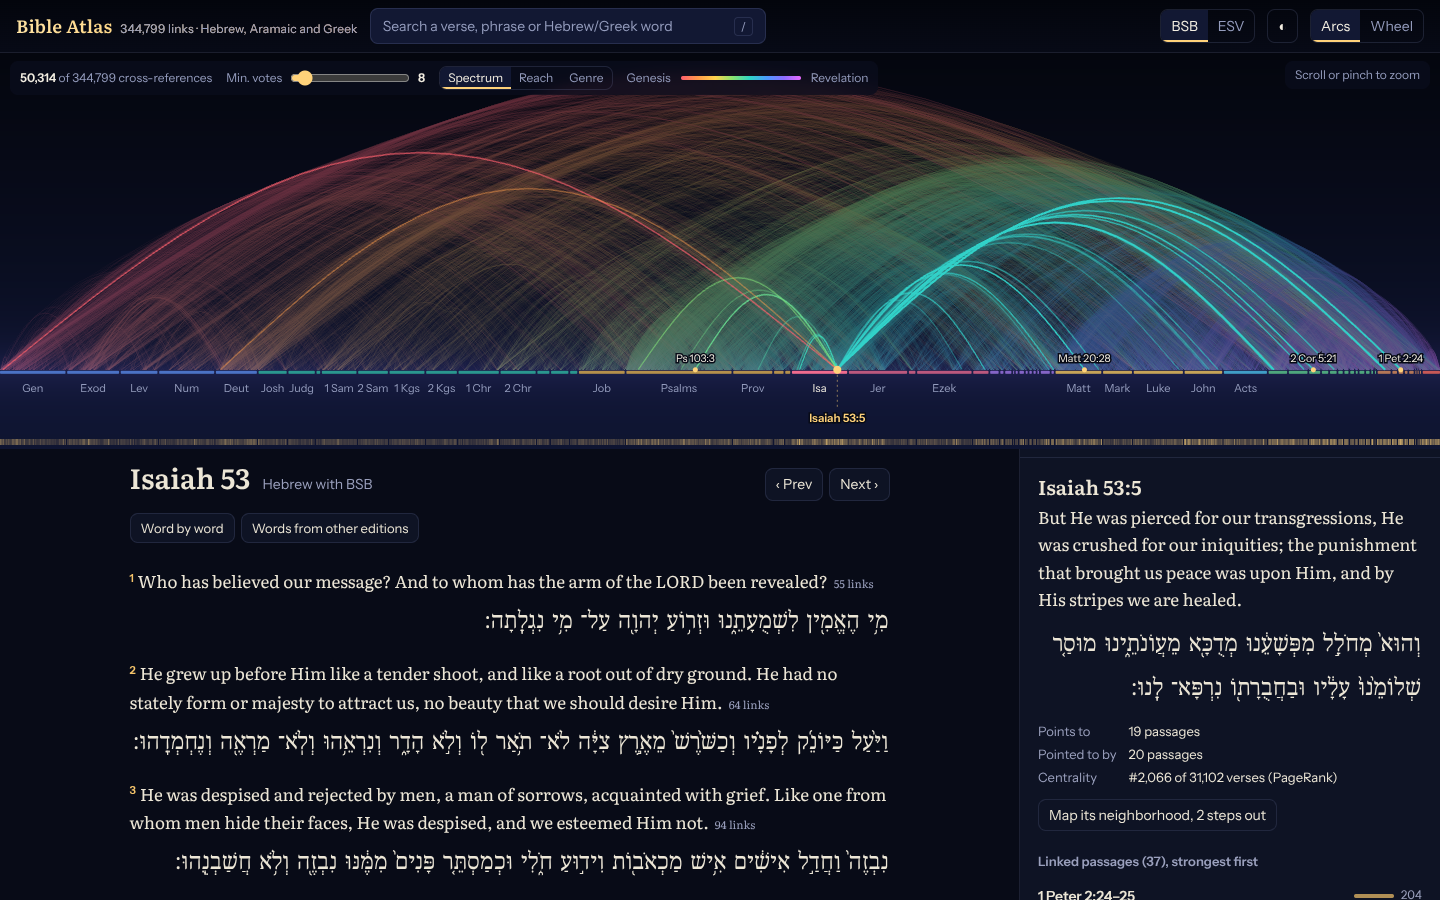
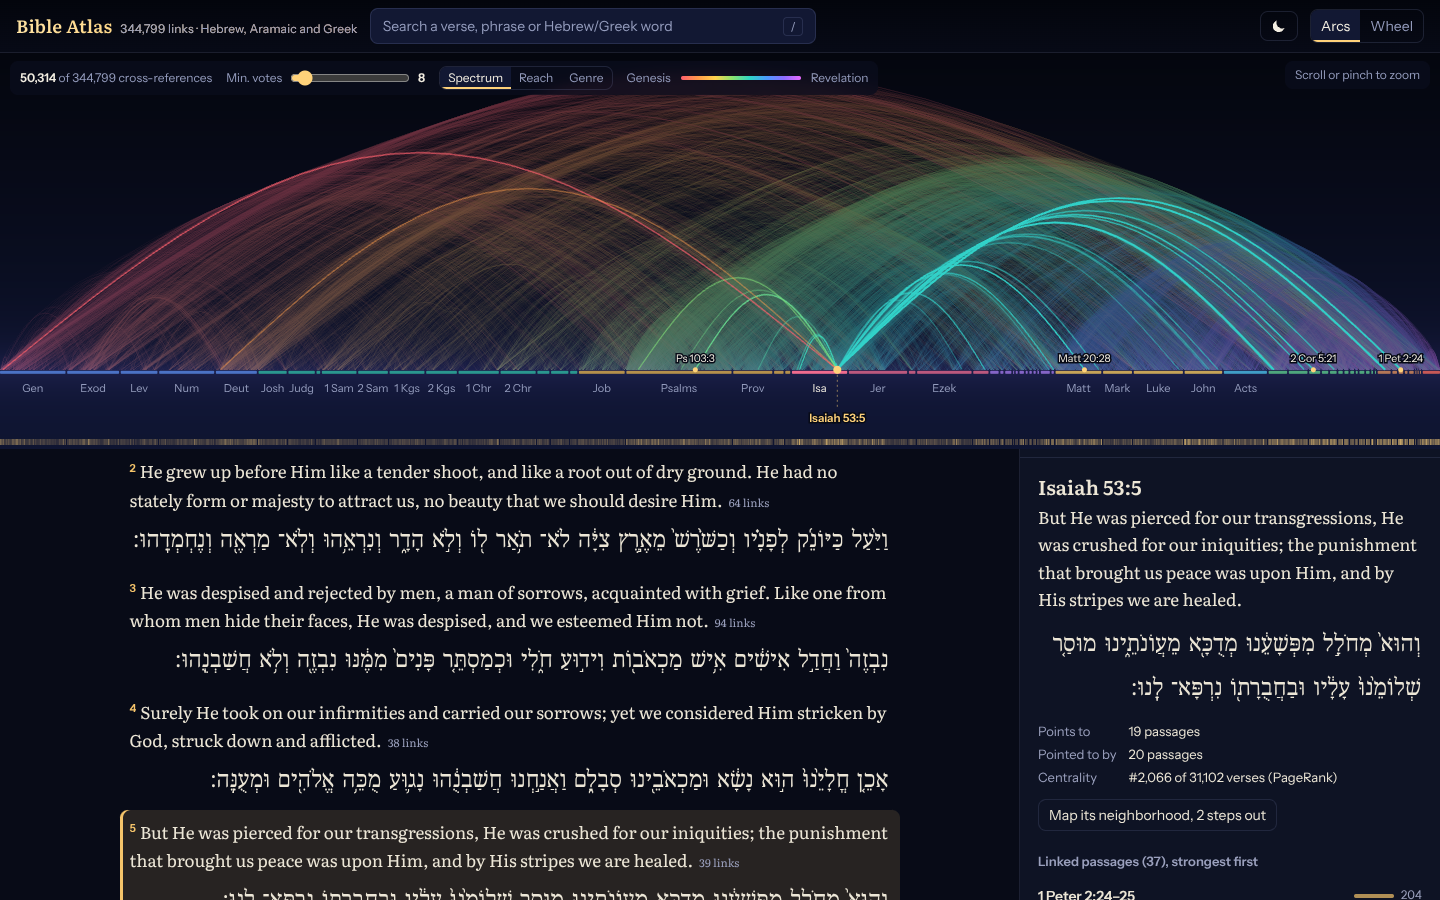
Live demo on GitHub Pages, new README and screenshots
- Deploy workflow builds the data, engine and site and publishes it to
  GitHub Pages on every push to main.
- VITE_ESV=off hides the ESV toggle in builds without the server proxy.
- README: live demo link, badges, animated map tour, deep links to
  famous verses and a screenshot gallery in the new colors.

Claude-Session: https://claude.ai/code/session_01KSvZFUjwhscpHwZiY2UUGi

Changed region(s): [[0.0625, 0.4978, 0.625, 1.0], [0.7812, 0.0, 0.875, 0.0622], [0.5312, 0.0, 0.5625, 0.0622]]

diff --git a/web/src/App.tsx b/web/src/App.tsx
@@ -1,5 +1,6 @@
 import { useEffect, useState } from 'preact/hooks';
 import { DATA_BASE, loadAtlas, versesWithRoot } from './data/atlas';
+import { ESV_ENABLED } from './data/esv';
 import { Engine } from './engine/client';
 import * as S from './state';
 import { pathFromHash, restoreFromHash, syncHash } from './url';
@@ -134,13 +135,15 @@ export function App() {
           Search a verse, phrase or Hebrew/Greek word <kbd>/</kbd>
         </button>
         <span class="spacer" />
-        <div class="seg" role="group" aria-label="English translation">
-          {(['BSB', 'ESV'] as const).map((t) => (
-            <button key={t} aria-pressed={S.translation.value === t} onClick={() => (S.translation.value = t)}>
-              {t}
-            </button>
-          ))}
-        </div>
+        {ESV_ENABLED && (
+          <div class="seg" role="group" aria-label="English translation">
+            {(['BSB', 'ESV'] as const).map((t) => (
+              <button key={t} aria-pressed={S.translation.value === t} onClick={() => (S.translation.value = t)}>
+                {t}
+              </button>
+            ))}
+          </div>
+        )}
         <button
           class="iconbtn"
           onClick={() => (S.pageTheme.value = THEME_NEXT[S.pageTheme.value])}

diff --git a/web/src/ui/Sources.tsx b/web/src/ui/Sources.tsx
@@ -1,6 +1,7 @@
 // Where every piece of data came from, pinned to commits and checksums.
 
 import type { Atlas } from '../data/atlas';
+import { ESV_ENABLED } from '../data/esv';
 
 const LABELS: Record<string, string> = {
   verses: 'verses',
@@ -64,6 +65,7 @@ export function Sources({ a }: { a: Atlas }) {
           ESV API terms
         </a>{' '}
         require. Search, the map and the word links use the BSB, which is public domain.
+        {!ESV_ENABLED && ' This copy of the site has no server, so the ESV is turned off here. Run it yourself with an ESV API key to read the ESV.'}
       </p>
 
       <h3>How to check it yourself</h3>

diff --git a/web/src/data/esv.ts b/web/src/data/esv.ts
@@ -7,6 +7,9 @@ export interface EsvChapter {
   copyright: string;
 }
 
+/** False in builds without the server (for example GitHub Pages, built with VITE_ESV=off). */
+export const ESV_ENABLED = import.meta.env.VITE_ESV !== 'off';
+
 const MAX_CHAPTERS = 2;
 const cache = new Map<string, Promise<EsvChapter>>();
 

diff --git a/README.md b/README.md
@@ -1,14 +1,69 @@
+<div align="center">
+
 # Bible Atlas
 
-Every cross-reference in the Bible on one map, with the original Hebrew, Aramaic and Greek under every verse, and a source for every fact.
+**Every cross-reference in the Bible on one map, with the original Hebrew, Aramaic and Greek under every verse, and a source for every fact.**
 
-![Isaiah 53:5 selected on the spectrum map, every arc colored by where it starts from Genesis to Revelation](docs/map.png)
+[**Open the live atlas**](https://sixteen1-6.github.io/BibleAtlas/) · [What it does](#what-it-does) · [Run it yourself](#quick-start) · [How it is built](#how-it-is-built) · [Ideas](IDEAS.md)
+
+[![Live demo](https://img.shields.io/badge/live-demo-f5c26b?style=flat-square)](https://sixteen1-6.github.io/BibleAtlas/)
+[![CI](https://github.com/Sixteen1-6/BibleAtlas/actions/workflows/ci.yml/badge.svg)](https://github.com/Sixteen1-6/BibleAtlas/actions/workflows/ci.yml)
+[![Deploy](https://github.com/Sixteen1-6/BibleAtlas/actions/workflows/pages.yml/badge.svg)](https://github.com/Sixteen1-6/BibleAtlas/actions/workflows/pages.yml)
+![Rust](https://img.shields.io/badge/engine-Rust%20%E2%86%92%20WebAssembly-b7410e?style=flat-square)
+![WebGL2](https://img.shields.io/badge/render-WebGL2-45cdad?style=flat-square)
+[![License: MIT](https://img.shields.io/badge/code-MIT-8a7fff?style=flat-square)](LICENSE)
+
+![The map stepping through Genesis 3:15, Psalm 22:1, Isaiah 53:5, John 3:16, Revelation 21:4 and more, each verse lighting up its cross-references](docs/tour.gif)
+
+**344,799** cross-references · **31,102** verses · **66** books · **3** original languages · **192** data checks · engine in **61 KB** of WebAssembly
+
+</div>
+
+## Start here
+
+Every view is a link, so these open straight to the story:
+
+| | |
+| --- | --- |
+| [Isaiah 53:5](https://sixteen1-6.github.io/BibleAtlas/#v=Isa.53.5) | "By His stripes we are healed", and 1 Peter 2:24, which quotes it |
+| [Psalm 22:1](https://sixteen1-6.github.io/BibleAtlas/#v=Ps.22.1) | "My God, my God, why have You forsaken me?", cried from the cross in Mark 15:34 and Matthew 27:46 |
+| [Genesis 3:15 to Revelation 12:9](https://sixteen1-6.github.io/BibleAtlas/#p=Gen.3.15~Rev.12.9&tab=paths) | The chain of cross-references from the first promise to the ancient serpent's defeat |
+| [Agape](https://sixteen1-6.github.io/BibleAtlas/#w=G0026&tab=word) | The Greek word for love: what it means, its grammar and every place it appears |
+| [The Lamb](https://sixteen1-6.github.io/BibleAtlas/#t=lamb&tab=themes) | One theme traced through specific Hebrew and Greek words, from Abel's flock to the throne |
+| [Daniel 7:13](https://sixteen1-6.github.io/BibleAtlas/#v=Dan.7.13) | "One like the Son of Man", and Jesus taking up those words in Matthew 26:64 |
+
+<table>
+  <tr>
+    <td width="50%"><img src="docs/map.png" alt="Isaiah 53:5 selected on the dark spectrum map with its Hebrew text"></td>
+    <td width="50%"><img src="docs/light.png" alt="John 3:16 in the warm paper reading theme with the Greek under each verse"></td>
+  </tr>
+  <tr>
+    <td align="center"><sub><b>Night sky.</b> Isaiah 53:5 and its links, each arc colored by where it starts.</sub></td>
+    <td align="center"><sub><b>Paper.</b> John 3:16 in the light reading theme, Greek under every verse.</sub></td>
+  </tr>
+  <tr>
+    <td><img src="docs/word-study.png" alt="Word study for the Hebrew word karah, to pierce, from Psalm 22:16"></td>
+    <td><img src="docs/path.png" alt="Connection path from Genesis 3:15 through John 8:44 to Revelation 12:9"></td>
+  </tr>
+  <tr>
+    <td align="center"><sub><b>Word study.</b> כָּרָה, "to pierce", from Psalm 22:16, with its meaning and every occurrence.</sub></td>
+    <td align="center"><sub><b>Connection paths.</b> Genesis 3:15 to Revelation 12:9 by way of John 8:44.</sub></td>
+  </tr>
+  <tr>
+    <td><img src="docs/themes.png" alt="The Lamb theme lighting up the map"></td>
+    <td><img src="docs/wheel.png" alt="The wheel view: 66 books on a circle joined by ribbons"></td>
+  </tr>
+  <tr>
+    <td align="center"><sub><b>Themes.</b> The Lamb, traced word by word from Genesis to Revelation.</sub></td>
+    <td align="center"><sub><b>Wheel.</b> The 66 books on a circle, ribbons sized by how many references join them.</sub></td>
+  </tr>
+</table>
 
 ## What it does
 
 - Arc map. All 344,799 OpenBible.info cross-references drawn at once with WebGL2. Overlapping arcs add their light together and are tone-mapped like an HDR photo, so dense regions glow instead of washing out. Three color modes: Spectrum (a rainbow from Genesis to Revelation, by where each arc starts), Reach (same book, near to far, Old Testament to New Testament) and Genre (law, history, prophets, gospels, letters and so on). Light, dark or system theme.
 - Wheel. The 66 books on a circle with ribbons sized by how many references join each pair.
-- Reader. English (BSB, or ESV with your API key) with the original text under each verse, inline or word by word.
+- Reader. English (BSB, or ESV with your API key when you run it yourself) with the original text under each verse, inline or word by word.
 - Word study. Tap any Hebrew, Aramaic or Greek word: root, transliteration, meaning in this verse, grammar in plain English, the lexicon definition, where it appears across the 66 books, and every occurrence.
 - Manuscript evidence. Words where Greek editions or Hebrew manuscripts differ are marked, with which editions have them. Psalm 22:16, for example, shows the Dead Sea Scroll reading next to the Leningrad Codex.
 - Why connected. For any two linked verses in the same language, the roots they share are highlighted.
@@ -17,8 +72,6 @@ Every cross-reference in the Bible on one map, with the original Hebrew, Aramaic
 - Most connected verses, by PageRank over the reference graph.
 - Search by reference ("jn 3:16"), English phrase, Strong's number or transliteration ("agape", "ruach").
 - Every view is a link (`#v=Isa.53.5`, `#w=G0026`, `#p=Gen.3.15~Rev.12.9`).
-
-![Word study for Psalm 22:16 with the Dead Sea Scroll variant](docs/word-study.png)
 
 ## Quick start
 
@@ -46,6 +99,10 @@ The key stays on the server. The proxy in `server/esv.mjs` requests one chapter 
 make web
 ESV_API_KEY=... make serve     # http://localhost:8080, serves web/dist and /api/esv
 ```
+
+### GitHub Pages
+
+Every push to `main` builds the data, the engine and the site and publishes it to GitHub Pages (`.github/workflows/pages.yml`). Pages has no server, so that copy is built with `VITE_ESV=off` and hides the ESV toggle. Everything else works the same, because the BSB and all the data are public. To publish your own fork, open Settings, then Pages, and set the source to GitHub Actions.
 
 ## How it is built
 

diff --git a/IDEAS.md b/IDEAS.md
@@ -36,4 +36,4 @@ Roughly in order of how much they would add for how much work. Each one builds o
 
 **Installable app.** A web manifest and icons so it can be added to a phone's home screen.
 
-**Deploy.** `make web` produces a static site plus one small Node server for the ESV proxy. That fits a single small service on Fly.io or Render, or the static part on GitHub Pages with the ESV turned off.
+**Deploy with the ESV.** The static site is on GitHub Pages with the ESV turned off. To offer the ESV too, run `make serve` (the site plus the small Node proxy) as a single small service on Fly.io or Render with the API key as a secret.
